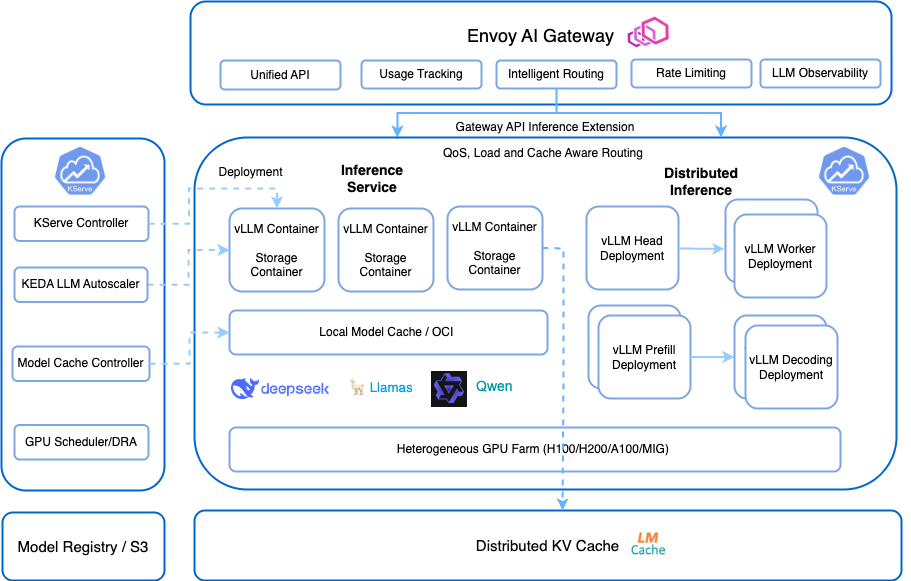
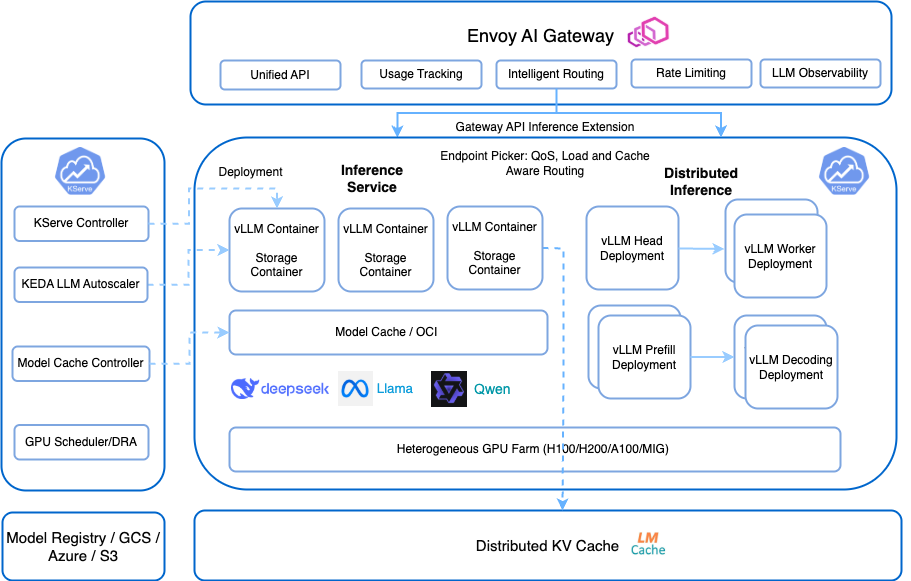
Add 0.15 release blog (#483)
* Add 0.15 release blog

* Add generative inference architecture image

* Update on lightweight installation

* Update raw deployment guide

* Update meta logo

* Update autoscaling

* Update autoscaling doc

* Add yaml examples

* Address comments

* add link

---------

diff --git a/overrides/main.html b/overrides/main.html
@@ -2,6 +2,6 @@
 
 {% block announce %}
  <h1>
-   <b>KServe v0.14 is Released</b>, <a href="/website/0.14/blog/articles/2024-12-13-KServe-0.14-release/">Read blog &gt;&gt;</a>
+   <b>KServe v0.15 is Released</b>, <a href="/website/0.15/blog/articles/2025-05-27-KServe-0.15-release/">Read blog &gt;&gt;</a>
  </h1>
 {% endblock %}

diff --git a/docs/blog/articles/2025-05-27-KServe-0.15-release.md b/docs/blog/articles/2025-05-27-KServe-0.15-release.md
@@ -1,0 +1,184 @@
+# Announcing: KServe v0.15： Advancing Generative AI Model Serving
+
+Authors: Alexa Griffith, Dan Sun, Yuan Tang, Johnu George, Lize Cai
+
+We are thrilled to announce the release of **KServe v0.15**, marking a significant leap forward in serving both predictive and generative AI models. This release introduces enhanced support for generative AI workloads, including advanced features for serving large language models (LLMs), improved model and KV caching mechanisms, and integration with Envoy AI Gateway.
+
+![!generative_inference](../../images/kserve_generative_inference.png)
+---
+
+## Embracing Generative AI Workloads
+
+KServe v0.15 brings first-class support for generative AI workloads, marking a key evolution beyond traditional predictive AI. Unlike predictive models that infer outcomes from existing data, generative models like large language models (LLMs) create new content from prompts. This fundamental difference introduces new serving challenges. KServe now provides the infrastructure and optimizations needed to serve these models efficiently at scale.
+
+To support these workloads, we've introduced a dedicated **Generative AI** section in our documentation, detailing the new capabilities and configurations tailored for generative models.
+
+KServe now offers a **lightweight** installation for hosting LLMs on Kubernetes, please follow [generative inference installation guide](https://kserve.github.io/website/0.15/admin/kubernetes_deployment) to get started. KEDA is an optional component for scaling based on LLM specific metrics and Envoy AI gateway is integrated for advanced traffic management capabilities with token rate limiting, unified API and intelligent routing.
+
+---
+
+## Key Generative AI Features in v0.15
+
+- **Envoy AI Gateway Integration**
+- **Multi Node Inference**
+- **LLM Autoscaler with KEDA**
+- **Distributed KV Cache with LMCache**
+
+---
+
+### Envoy AI Gateway Support
+
+KServe v0.15 adds initial support for [**Envoy AI Gateway**](https://aigateway.envoyproxy.io), a CNCF open source project built on top of [Envoy Gateway](https://gateway.envoyproxy.io) and designed specifically for managing generative AI traffic at scale.
+
+[Envoy Gateway](https://gateway.envoyproxy.io) is also now supported in KServe along with [Kubernetes Gateway API](https://gateway-api.sigs.k8s.io). Unlike traditional gateway solutions, Envoy AI Gateway provides advanced capabilities tailored to AI serving, including:
+
+- Dynamic model routing based on request content, model metadata, or user context.
+- Built-in support for multi-tenant inference, with fine-grained access controls and authentication.
+- Unified API for routing and managing LLM/AI traffic easily.
+- Integrated observability for model-level performance insights.
+- Extensibility for inference-specific policies like rate-limiting by token, and model lifecycle management.
+- Automatic failover mechanisms to ensure service reliability.
+
+This integration enables a unified, intelligent entrypoint for both predictive and generative workloads—scaling from traditional models to complex LLMs—all while abstracting infrastructure complexity from the user. Please refer to [Envoy AI Gateway integration doc](https://kserve.github.io/website/0.15/admin/ai-gateway_integration) for more details.
+
+
+---
+
+### Multi-Node Inference
+
+To support LLMs too large for a single node (e.g., Llama 3.1 405B), KServe v0.15 introduces multi-node inference across distributed GPUs, unlocking large model serving at scale. As models continue increase in size, multi-node inference capabilities are increasingly important for production deployments that require real-time user experience. Please refer to the [Multi Node inference doc](https://kserve.github.io/website/0.15/modelserving/v1beta1/llm/huggingface/multi-node) for more details.
+
+The community is also working on a [new distributed inference API](https://github.com/kserve/kserve/issues/4433) to allow scaling Multi Node Inference and support Disaggregatd Prefilling which is targeted for large LLM deployments. 
+
+```yaml
+apiVersion: serving.kserve.io/v1beta1
+kind: InferenceService
+metadata:
+  name: huggingface-llama3
+spec:
+  predictor:
+    model:
+      modelFormat:
+        name: huggingface
+      storageUri: pvc://llama-3-8b-pvc/hf/8b_instruction_tuned
+    workerSpec:
+      pipelineParallelSize: 2
+      tensorParallelSize: 1
+```
+
+---
+
+### LLM Autoscaler with KEDA [(Kubernetes Event-driven Autoscaling)](https://keda.sh/)
+
+Autoscaling LLMs is challenging due to their high resource demands and variable inference traffic patterns. The dynamic nature of LLM inference, with varying input lengths and token generation speeds, further complicates the prediction of resource needs, demanding sophisticated and adaptive autoscaling solutions. KServe now integrates with [**KEDA**](https://keda.sh) (Kubernetes Event-Driven Autoscaling) offers a powerful solution to many of the challenges associated with LLM autoscaling by extending Kubernetes' native Horizontal Pod Autoscaler (HPA) capabilities. KEDA can monitor custom metrics which means you can expose LLM metrics from your LLM inference servers and use KEDA to scale based on these precise indicators.
+
+This empowers users to efficiently manage LLM workloads with more intelligent scaling decisions based on workload characteristics for improved performance and cost optimization. Please follow the [tutorial doc](https://kserve.github.io/website/0.15/modelserving/autoscaling/keda/autoscaling_llm) for how to autoscale based on vLLM metrics.
+
+```yaml
+apiVersion: serving.kserve.io/v1beta1
+kind: InferenceService
+metadata:
+  name: huggingface-llama3-keda
+  annotations:
+    serving.kserve.io/autoscalerClass: "keda"
+    sidecar.opentelemetry.io/inject: "huggingface-llama3-keda"
+spec:
+  predictor:
+    model:
+      modelFormat:
+        name: huggingface
+      args:
+        - --model_name=llama3
+        - --model_id=meta-llama/meta-llama-3-70b
+    minReplicas: 1
+    maxReplicas: 5
+    autoScaling:
+      metrics:
+        - type: PodMetric
+          podmetric:
+            metric:
+              backend: "opentelemetry"
+              metricNames:
+                - vllm:num_requests_running
+              query: "vllm:num_requests_running"
+            target:
+              type: Value
+              value: "4"
+ ```
+
+---
+
+### Distributed KV Cache with [LMCache](https://lmcache.ai)
+
+Key-Value (KV) cache offloading is a technique used in large language model (LLM) serving to store and reuse the intermediate key and value tensors generated during model inference. In transformer-based models, these KV caches represent the context for each token processed, and reusing them allows the model to avoid redundant computations for repeated or similar prompts.
+
+Enabling KV cache offloading across multiple requests and serving instances can achieve reduced Time To First Token(TTFT), improve scalablity for shared cache across replicas, and improve user experience for multi-turn QA or RAG.
+
+KServe integrates [LMCache](https://lmcache.ai), the-state-of-art KV cache layer library developped by LMCache Lab to reduce inference costs and ensure SLOs for both latency and throughput at scale. Please follow the [LMCache integration doc](https://kserve.github.io/website/0.15/modelserving/v1beta1/llm/huggingface/kv_cache_offloading/#overview) to optimize your GenAI inference workload.
+
+```yaml
+apiVersion: serving.kserve.io/v1beta1
+kind: InferenceService
+metadata:
+  name: huggingface-llama3-lmcache
+spec:
+  predictor:
+    minReplicas: 2
+    model:
+      modelFormat:
+        name: huggingface
+      args:
+        - --model_name=llama3
+        - --model_id=meta-llama/meta-llama-3-70b
+        - --kv-transfer-config
+        - '{"kv_connector":"LMCacheConnectorV1", "kv_role":"kv_both"}'
+        - --enable-chunked-prefill
+```
+
+---
+
+### Advanced Model Caching Mechanisms
+
+To reduce model loading times and improve overall efficiency of serving large models, KServe v0.15 introduces advanced model caching features:
+
+- **LocalModelCache Enhancements:** Improved the LocalModelCache custom resource to support multiple node groups, providing greater flexibility in model placement and caching strategies.
+- **Node Agent Improvements:** Enhanced the local model node agent for better performance and reliability.
+
+---
+
+### Enhanced vLLM Backend Support
+
+The vLLM backend has been significantly upgraded to better serve generative AI models:
+
+- **Version Upgrade:** Updated to vLLM 0.8.5, bringing performance improvements with v1 backend and new features.
+- **Qwen3 & Llama4:** Added support for Qwen3 and Llama4 model.
+- **Reranking Support:** Added support for reranking models.
+- **Embedding Support:** Added support for OpenAI-compatible embeddings API, enabling a broader range of applications.
+
+---
+
+## Additional Improvements
+
+This release also includes several other enhancements:
+
+- Support Deep Health Checks [#3348](https://github.com/kserve/kserve/pull/3348)
+- Collocated Transformer & Predictor Feature [#4255](https://github.com/kserve/kserve/pull/4255)
+- Kubernetes Gateway API support [#3952](https://github.com/kserve/kserve/pull/3952)
+- Security Updates
+
+For a complete list of changes and updates, please refer to the official release notes.
+
+---
+
+## Join the Community
+
+We invite you to explore the new features in KServe v0.15 and contribute to the ongoing development of the project:
+
+- Visit [KServe Website](https://kserve.github.io/website/master/)
+- Explore [KServe GitHub Repository](https://github.com/kserve/kserve)
+- Join the conversation on CNCF Slack [#kserve](https://cloud-native.slack.com/archives/C06AH2C3K8B)
+- Attend our community meetings by subscribing to the [KServe calendar](https://zoom-lfx.platform.linuxfoundation.org/meetings/kserve?view=month)
+
+We extend our gratitude to all the contributors who made this release possible. Your efforts continue to drive the advancement of KServe as a leading platform for serving machine learning models.
+
+**Happy serving!**

diff --git a/docs/admin/kubernetes_deployment.md b/docs/admin/kubernetes_deployment.md
@@ -1,5 +1,8 @@
 # Kubernetes Deployment Installation Guide
-KServe supports `RawDeployment` mode to enable `InferenceService` deployment with Kubernetes resources [`Deployment`](https://kubernetes.io/docs/concepts/workloads/controllers/deployment), [`Service`](https://kubernetes.io/docs/concepts/services-networking/service), [`Ingress`](https://kubernetes.io/docs/concepts/services-networking/ingress) / [`Gateway API`](https://kubernetes.io/docs/concepts/services-networking/gateway/) and [`Horizontal Pod Autoscaler`](https://kubernetes.io/docs/tasks/run-application/horizontal-pod-autoscale). Comparing to serverless deployment it unlocks Knative limitations such as mounting multiple volumes, on the other hand `Scale down and from Zero` is not supported in `RawDeployment` mode.
+
+KServe supports `RawDeployment` mode to enable `InferenceService` deployment for both **Predictive Inference** and **Generative Inference** workload with **minimal dependencies** on Kubernetes resources [`Deployment`](https://kubernetes.io/docs/concepts/workloads/controllers/deployment), [`Service`](https://kubernetes.io/docs/concepts/services-networking/service), [`Ingress`](https://kubernetes.io/docs/concepts/services-networking/ingress) / [`Gateway API`](https://kubernetes.io/docs/concepts/services-networking/gateway/) and [`Horizontal Pod Autoscaler`](https://kubernetes.io/docs/tasks/run-application/horizontal-pod-autoscale). 
+
+Comparing to `Serverless` mode which depends on Knative for request driven Autoscaling, in `RawDeployment` mode [KEDA](https://keda.sh) can be installed optionally to enable Autoscaling based on any custom metrics. `Scale from Zero` is currently not supported in `RawDeployment` mode for HTTP requests.
 
 Kubernetes 1.30 is the minimally required version and please check the following recommended Istio versions for the corresponding
 Kubernetes version.

diff --git a/docs/modelserving/v1beta1/llm/huggingface/multi-node/README.md b/docs/modelserving/v1beta1/llm/huggingface/multi-node/README.md
@@ -125,18 +125,15 @@ metadata:
   annotations:
     serving.kserve.io/deploymentMode: RawDeployment
     serving.kserve.io/autoscalerClass: none
-
 spec:
   predictor:
     model:
       modelFormat:
         name: huggingface
       storageUri: pvc://llama-3-8b-pvc/hf/8b_instruction_tuned
-    workerSpec: {
+    workerSpec:
       pipelineParallelSize: 2
       tensorParallelSize: 1
-    }  
-    
 ```
 
 !!! info "Mechanism: How to Set GPU Allocation per Node"
